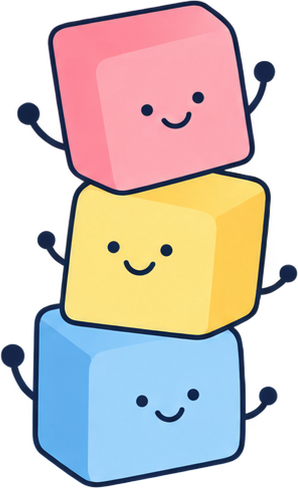
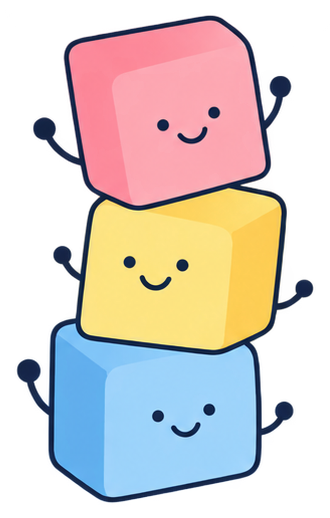
イラストの切れを修正：素材を余白つきで切り出し直し（雲の点など）・昇る気球を内側へ・流れる列の端をぼかす

diff --git a/index.html b/index.html
@@ -20,9 +20,9 @@
   <link rel="preconnect" href="https://fonts.googleapis.com">
   <link rel="preconnect" href="https://fonts.gstatic.com" crossorigin>
   <link href="https://fonts.googleapis.com/css2?family=Roboto:wght@900&family=Zen+Kaku+Gothic+New:wght@500;700&family=Zen+Maru+Gothic:wght@700;900&family=Mochiy+Pop+One&display=swap" rel="stylesheet">
-    <link rel="stylesheet" href="tokens.css?v=20261019k">
-  <link rel="stylesheet" href="base.css?v=20261019k">
-  <link rel="stylesheet" href="style.css?v=20261019k">
+    <link rel="stylesheet" href="tokens.css?v=20261019m">
+  <link rel="stylesheet" href="base.css?v=20261019m">
+  <link rel="stylesheet" href="style.css?v=20261019m">
 </head>
 <body>
   <svg width="0" height="0" class="defs" aria-hidden="true">
@@ -38,9 +38,9 @@
   <div class="stage">
         <aside class="rail rail--left" aria-hidden="true">
       <div class="float-set float-set--l">
-        <img class="fl fl--balloon" src="assets/illust/ch_balloon.png?v=20261019k" alt="" width="331" height="450" decoding="async">
-        <img class="fl fl--face" src="assets/illust/ch_blocks.png?v=20261019k" alt="" width="298" height="488" decoding="async">
-        <img class="fl fl--star" src="assets/illust/ch_mitten.png?v=20261019k" alt="" width="417" height="417" decoding="async">
+        <img class="fl fl--balloon" src="assets/illust/ch_balloon.png?v=20261019m" alt="" width="360" height="482" decoding="async">
+        <img class="fl fl--face" src="assets/illust/ch_blocks.png?v=20261019m" alt="" width="330" height="518" decoding="async">
+        <img class="fl fl--star" src="assets/illust/ch_mitten.png?v=20261019m" alt="" width="448" height="448" decoding="async">
       </div>
       <div class="rail-logo">
         <span class="tape tape--pink rail-logo__tape"></span>
@@ -63,12 +63,12 @@
 
                 <section class="page page--hero" id="top" data-tone="light" data-label="TOP">
           <h1 class="vh">合同会社アステップ 児童指導員・保育士 採用サイト</h1>
-          <video class="hero__video" src="assets/hero.mp4?v=20261019k" poster="assets/hero-poster.jpg?v=20261019k" autoplay muted loop playsinline></video>
+          <video class="hero__video" src="assets/hero.mp4?v=20261019m" poster="assets/hero-poster.jpg?v=20261019m" autoplay muted loop playsinline></video>
           <p class="hero__swipe" aria-hidden="true"><span>SWIPE UP</span></p>
         </section>
 
                 <section class="page page--about" id="p1" data-tone="light" data-label="ABOUT">
-          <div class="bgd" aria-hidden="true"><svg class="bd bd--yellow bd--spin" style="--x:6%;--y:90%;--w:2.2em;--d:0s"><use href="#star"/></svg><svg class="bd bd--pink" style="--x:86%;--y:58%;--w:2em;--d:-2s"><use href="#face"/></svg><span class="cut" style="--x:70%;--y:9%;--w:26%;--d:0.2s"><img class="cut__in" src="assets/illust/ch_balloon.png?v=20261019k" alt="" width="331" height="450" decoding="async"></span><span class="cut" style="--x:4%;--y:9%;--w:22%;--d:0.1s"><img class="cut__in" src="assets/illust/ch_mitten.png?v=20261019k" alt="" width="417" height="417" decoding="async"></span></div>
+          <div class="bgd" aria-hidden="true"><svg class="bd bd--yellow bd--spin" style="--x:6%;--y:90%;--w:2.2em;--d:0s"><use href="#star"/></svg><svg class="bd bd--pink" style="--x:86%;--y:58%;--w:2em;--d:-2s"><use href="#face"/></svg><span class="cut" style="--x:70%;--y:9%;--w:26%;--d:0.2s"><img class="cut__in" src="assets/illust/ch_balloon.png?v=20261019m" alt="" width="360" height="482" decoding="async"></span><span class="cut" style="--x:4%;--y:9%;--w:22%;--d:0.1s"><img class="cut__in" src="assets/illust/ch_mitten.png?v=20261019m" alt="" width="448" height="448" decoding="async"></span></div>
           <span class="about__open" aria-hidden="true"></span>
           <div class="page__inner">
             <div class="head">
@@ -85,7 +85,7 @@
         </section>
 
                 <section class="page page--value" id="p2" data-tone="light" data-label="VALUE">
-          <div class="bgd" aria-hidden="true"><svg class="bd bd--blue bd--spin" style="--x:4%;--y:12%;--w:2em;--d:0s"><use href="#star"/></svg><svg class="bd bd--pink bd--balloon bd--rise" style="--x:88%;--y:52%;--w:2.2em;--d:-6s"><use href="#balloon"/></svg><span class="cut" style="--x:72%;--y:8%;--w:25%;--d:0.2s"><img class="cut__in" src="assets/illust/ch_star.png?v=20261019k" alt="" width="349" height="358" decoding="async"></span></div>
+          <div class="bgd" aria-hidden="true"><svg class="bd bd--blue bd--spin" style="--x:4%;--y:12%;--w:2em;--d:0s"><use href="#star"/></svg><svg class="bd bd--pink bd--balloon bd--rise" style="--x:78%;--y:52%;--w:2.2em;--d:-6s"><use href="#balloon"/></svg><span class="cut" style="--x:72%;--y:8%;--w:25%;--d:0.2s"><img class="cut__in" src="assets/illust/ch_star.png?v=20261019m" alt="" width="378" height="390" decoding="async"></span></div>
           <span class="sun sun--pink" aria-hidden="true"><svg><use href="#face"/></svg></span>
           <div class="page__inner">
             <div class="head">
@@ -95,7 +95,7 @@
             <div class="value__row">
               <p class="body rv"><span class="ln">私たちが<wbr>大切に<span class="nb">しているのは、</span></span><span class="ln">何でも<wbr>教えて、</span><span class="ln"><span class="nb">何でも手伝う</span><wbr><span class="nb">支援じゃない。</span></span></p>
               <figure class="jacket rv" aria-hidden="true">
-                <img class="jacket__img" src="assets/photo/kya_2.jpg?v=20261019k" alt="" width="720" height="540" decoding="async">
+                <img class="jacket__img" src="assets/photo/kya_2.jpg?v=20261019m" alt="" width="720" height="540" decoding="async">
                 <span class="jacket__burst"><svg><use href="#burst"/></svg><b>？</b></span>
               </figure>
             </div>
@@ -107,7 +107,7 @@
         </section>
 
                 <section class="page page--case" id="p3" data-tone="light" data-label="CASE">
-          <div class="bgd" aria-hidden="true"><svg class="bd bd--yellow bd--spin" style="--x:90%;--y:90%;--w:2em;--d:0s"><use href="#star"/></svg><svg class="bd bd--blue" style="--x:4%;--y:10%;--w:1.8em;--d:-1s"><use href="#face"/></svg><span class="cut" style="--x:66%;--y:8%;--w:32%;--d:0.2s"><img class="cut__in" src="assets/illust/ch_book.png?v=20261019k" alt="" width="440" height="336" decoding="async"></span><span class="cut" style="--x:84%;--y:23%;--w:13%;--d:0.6s"><img class="cut__in" src="assets/illust/ch_drop.png?v=20261019k" alt="" width="356" height="412" decoding="async"></span></div>
+          <div class="bgd" aria-hidden="true"><svg class="bd bd--yellow bd--spin" style="--x:90%;--y:90%;--w:2em;--d:0s"><use href="#star"/></svg><svg class="bd bd--blue" style="--x:4%;--y:10%;--w:1.8em;--d:-1s"><use href="#face"/></svg><span class="cut" style="--x:66%;--y:8%;--w:32%;--d:0.2s"><img class="cut__in" src="assets/illust/ch_book.png?v=20261019m" alt="" width="470" height="368" decoding="async"></span><span class="cut" style="--x:84%;--y:23%;--w:13%;--d:0.6s"><img class="cut__in" src="assets/illust/ch_drop.png?v=20261019m" alt="" width="386" height="444" decoding="async"></span></div>
           <div class="page__inner">
             <div class="head">
               <p class="bigen page__label rv" aria-hidden="true"><span class="bigen__en">CASE</span><span class="bigen__ja">こんなとき</span></p>
@@ -115,14 +115,14 @@
             </div>
             <div class="cases">
               <article class="case rv">
-                <figure class="case__fig" aria-hidden="true"><img class="case__img" src="assets/illust/ex1.jpg?v=20261019k" alt="" width="640" height="640" decoding="async"></figure>
+                <figure class="case__fig" aria-hidden="true"><img class="case__img" src="assets/illust/ex1.jpg?v=20261019m" alt="" width="640" height="640" decoding="async"></figure>
                 <div class="case__body">
                   <h3 class="case__tag"><span>例①</span><span class="case__plus" aria-hidden="true">？</span></h3>
                   <p class="case__txt"><span class="ln">「ただいま」を<wbr><span class="nb">言わない子に、</span></span><span class="ln">「ただいまって<wbr>言おう」と<wbr>教えるのではなく、<span class="kw">「あれ？<wbr><span class="nb">何か忘れてない？」</span></span>と<wbr>声をかけてみる。</span></p>
                 </div>
               </article>
               <article class="case rv">
-                <figure class="case__fig" aria-hidden="true"><img class="case__img" src="assets/illust/ex2.jpg?v=20261019k" alt="" width="640" height="640" decoding="async"></figure>
+                <figure class="case__fig" aria-hidden="true"><img class="case__img" src="assets/illust/ex2.jpg?v=20261019m" alt="" width="640" height="640" decoding="async"></figure>
                 <div class="case__body">
                   <h3 class="case__tag"><span>例②</span><span class="case__plus" aria-hidden="true">？</span></h3>
                   <p class="case__txt"><span class="ln">おやつの<wbr>時間も、<wbr>お盆に<wbr>乗せるところから<wbr>自分で<wbr>挑戦してもらう。</span><span class="ln">できたら<span class="kw">「持てたじゃん！」</span>と、<wbr>その一歩を<wbr>一緒に<wbr>喜ぶ。</span></p>
@@ -134,7 +134,7 @@
         </section>
 
                 <section class="page page--strong1" id="p4" data-tone="light" data-label="STRENGTH 01">
-          <div class="bgd" aria-hidden="true"><svg class="bd bd--pink bd--balloon bd--rise" style="--x:6%;--y:60%;--w:2.2em;--d:-9s"><use href="#balloon"/></svg><span class="cut" style="--x:76%;--y:7%;--w:20%;--d:0.2s"><img class="cut__in" src="assets/illust/ch_blocks.png?v=20261019k" alt="" width="298" height="488" decoding="async"></span></div>
+          <div class="bgd" aria-hidden="true"><svg class="bd bd--pink bd--balloon bd--rise" style="--x:6%;--y:60%;--w:2.2em;--d:-9s"><use href="#balloon"/></svg><span class="cut" style="--x:76%;--y:7%;--w:20%;--d:0.2s"><img class="cut__in" src="assets/illust/ch_blocks.png?v=20261019m" alt="" width="330" height="518" decoding="async"></span></div>
           <span class="stairs stairs--r" aria-hidden="true"></span>
           <div class="page__inner">
             <div class="head">
@@ -142,14 +142,14 @@
               <h2 class="hd rv"><span class="hd__pre">アステップの<wbr>強み１：</span><span class="kw">先輩の<wbr>経験が、<span class="nb">あなたの引き出しに！</span></span></h2>
             </div>
             <div class="txt">
-              <p class="body rv"><span class="ln">ここには、<wbr>10年以上働き続けている<wbr>スタッフも<wbr>多く<wbr>在籍。</span><span class="ln">経験豊富な<wbr>先輩たちの<wbr>関わり方を<wbr>間近で<wbr>見て、<wbr>学べるからこそ、</span><span class="ln pills"><span class="pills__list"><span class="pill"><span class="pill__no" aria-hidden="true">01</span><span class="pill__t">「こんな<wbr>声のかけ方もあるんだ」</span></span><span class="pill"><span class="pill__no" aria-hidden="true">02</span><span class="pill__t">「こんな方法も<wbr>試せるんだ」</span></span></span><img class="pills__ill" src="assets/illust/strong1.jpg?v=20261019k" alt="" aria-hidden="true" width="480" height="480" decoding="async"></span><span class="ln">と、<wbr>自分の<wbr>支援の<wbr>幅も<wbr>広がっていきます。</span></p>
+              <p class="body rv"><span class="ln">ここには、<wbr>10年以上働き続けている<wbr>スタッフも<wbr>多く<wbr>在籍。</span><span class="ln">経験豊富な<wbr>先輩たちの<wbr>関わり方を<wbr>間近で<wbr>見て、<wbr>学べるからこそ、</span><span class="ln pills"><span class="pills__list"><span class="pill"><span class="pill__no" aria-hidden="true">01</span><span class="pill__t">「こんな<wbr>声のかけ方もあるんだ」</span></span><span class="pill"><span class="pill__no" aria-hidden="true">02</span><span class="pill__t">「こんな方法も<wbr>試せるんだ」</span></span></span><img class="pills__ill" src="assets/illust/strong1.jpg?v=20261019m" alt="" aria-hidden="true" width="480" height="480" decoding="async"></span><span class="ln">と、<wbr>自分の<wbr>支援の<wbr>幅も<wbr>広がっていきます。</span></p>
               <p class="body rv"><span class="ln">実際に、<span class="kw">未経験の<wbr>パートから<wbr>スタート</span>し、</span><span class="ln">今では<span class="kw">児童指導員として<wbr>活躍</span>している<wbr>スタッフも。</span><span class="ln">子どもたちと<wbr>向き合いながら、<wbr>あなたらしい<wbr>支援を<wbr>見つけていける<wbr>環境です。</span></p>
             </div>
           </div>
         </section>
 
                 <section class="page page--strong2" id="p5" data-tone="light" data-label="STRENGTH 02">
-          <div class="bgd" aria-hidden="true"><svg class="bd bd--yellow bd--spin" style="--x:88%;--y:46%;--w:2em;--d:0s"><use href="#star"/></svg><span class="cut" style="--x:76%;--y:9%;--w:22%;--d:0.2s"><img class="cut__in" src="assets/illust/ch_crayon.png?v=20261019k" alt="" width="410" height="385" decoding="async"></span></div>
+          <div class="bgd" aria-hidden="true"><svg class="bd bd--yellow bd--spin" style="--x:88%;--y:46%;--w:2em;--d:0s"><use href="#star"/></svg><span class="cut" style="--x:76%;--y:9%;--w:22%;--d:0.2s"><img class="cut__in" src="assets/illust/ch_crayon.png?v=20261019m" alt="" width="440" height="416" decoding="async"></span></div>
           <span class="stairs stairs--l" aria-hidden="true"></span>
           <div class="page__inner">
             <div class="head">
@@ -158,7 +158,7 @@
             </div>
             <div class="eye rv">
               <p class="body eye__txt"><span class="ln">ここでは、<wbr>子どもたちから<wbr>「先生」ではなく<span class="nb"><span class="nametag"><span class="nametag__clip" aria-hidden="true"></span>「〇〇さん」</span>と</span><wbr>名前で<wbr><span class="nb">呼んでもらっている。</span></p>
-              <figure class="eye__fig" aria-hidden="true"><span class="tape tape--pink eye__tape"></span><img class="eye__img" src="assets/illust/strong2.jpg?v=20261019k" alt="" width="640" height="480" decoding="async"></figure>
+              <figure class="eye__fig" aria-hidden="true"><span class="tape tape--pink eye__tape"></span><img class="eye__img" src="assets/illust/strong2.jpg?v=20261019m" alt="" width="640" height="480" decoding="async"></figure>
             </div>
             <div class="txt">
               <p class="body rv"><span class="ln">先生らしく<wbr>振る舞ったり、<wbr>立場を<wbr>使って<wbr>教えたりする<wbr>必要はいらない。</span><span class="ln">一人の人として<wbr>子どもたちと<wbr>関わり、</span><span class="ln">一緒に<wbr>過ごす<wbr>中で、<wbr>その子に<wbr>合った<wbr>声のかけ方や<wbr>支援を<wbr>考えていきます。</span></p>
@@ -168,7 +168,7 @@
         </section>
 
                 <section class="page page--job" id="p6" data-tone="light" data-label="JOB">
-          <div class="bgd" aria-hidden="true"><svg class="bd bd--yellow bd--spin" style="--x:86%;--y:86%;--w:2em;--d:0s"><use href="#star"/></svg><svg class="bd bd--pink bd--balloon bd--rise" style="--x:4%;--y:92%;--w:2.2em;--d:-4s"><use href="#balloon"/></svg><span class="cut" style="--x:62%;--y:5%;--w:28%;--d:0.2s"><img class="cut__in" src="assets/illust/ch_balloon.png?v=20261019k" alt="" width="331" height="450" decoding="async"></span><span class="cut" style="--x:-4%;--y:84%;--w:24%;--d:0.5s"><img class="cut__in" src="assets/illust/ch_star.png?v=20261019k" alt="" width="349" height="358" decoding="async"></span></div>
+          <div class="bgd" aria-hidden="true"><svg class="bd bd--yellow bd--spin" style="--x:86%;--y:86%;--w:2em;--d:0s"><use href="#star"/></svg><svg class="bd bd--pink bd--balloon bd--rise" style="--x:4%;--y:92%;--w:2.2em;--d:-4s"><use href="#balloon"/></svg><span class="cut" style="--x:62%;--y:5%;--w:28%;--d:0.2s"><img class="cut__in" src="assets/illust/ch_balloon.png?v=20261019m" alt="" width="360" height="482" decoding="async"></span><span class="cut" style="--x:-4%;--y:84%;--w:24%;--d:0.5s"><img class="cut__in" src="assets/illust/ch_star.png?v=20261019m" alt="" width="378" height="390" decoding="async"></span></div>
           <div class="page__inner">
             <div class="head">
               <p class="bigen page__label rv" aria-hidden="true"><span class="bigen__en">JOB</span><span class="bigen__ja">おしごと</span></p>
@@ -187,7 +187,7 @@
         </section>
 
                 <section class="page page--place" id="p7" data-tone="light" data-label="PLACE">
-          <div class="bgd" aria-hidden="true"><svg class="bd bd--blue bd--balloon bd--rise" style="--x:90%;--y:30%;--w:2.2em;--d:-12s"><use href="#balloon"/></svg><svg class="bd bd--pink bd--spin" style="--x:4%;--y:92%;--w:2em;--d:0s"><use href="#star"/></svg><span class="cut" style="--x:72%;--y:8%;--w:26%;--d:0.2s"><img class="cut__in" src="assets/illust/ch_bag.png?v=20261019k" alt="" width="381" height="393" decoding="async"></span><span class="cut" style="--x:68%;--y:86%;--w:28%;--d:0.6s"><img class="cut__in" src="assets/illust/ch_shoes.png?v=20261019k" alt="" width="442" height="392" decoding="async"></span></div>
+          <div class="bgd" aria-hidden="true"><svg class="bd bd--blue bd--balloon bd--rise" style="--x:78%;--y:30%;--w:2.2em;--d:-12s"><use href="#balloon"/></svg><svg class="bd bd--pink bd--spin" style="--x:4%;--y:92%;--w:2em;--d:0s"><use href="#star"/></svg><span class="cut" style="--x:72%;--y:8%;--w:26%;--d:0.2s"><img class="cut__in" src="assets/illust/ch_bag.png?v=20261019m" alt="" width="412" height="424" decoding="async"></span><span class="cut" style="--x:68%;--y:86%;--w:28%;--d:0.6s"><img class="cut__in" src="assets/illust/ch_shoes.png?v=20261019m" alt="" width="472" height="424" decoding="async"></span></div>
           <div class="page__inner">
             <div class="head">
               <p class="bigen page__label rv" aria-hidden="true"><span class="bigen__en">PLACE</span><span class="bigen__ja">しせつ</span></p>
@@ -200,20 +200,20 @@
               </div>
               <article class="facility is-on" data-i="0">
                 <div class="facility__photos" aria-hidden="true">
-                  <img class="facility__img is-on" src="assets/photo/emi_1.jpg?v=20261019k" alt="" width="720" height="540" decoding="async">
-                  <img class="facility__img" src="assets/photo/emi_2.jpg?v=20261019k" alt="" width="720" height="540" decoding="async">
-                  <img class="facility__img" src="assets/photo/emi_3.jpg?v=20261019k" alt="" width="720" height="540" decoding="async">
-                  <span class="facility__logo"><img src="assets/logo/emifull.jpg?v=20261019k" alt="" width="400" height="459" decoding="async"></span>
+                  <img class="facility__img is-on" src="assets/photo/emi_1.jpg?v=20261019m" alt="" width="720" height="540" decoding="async">
+                  <img class="facility__img" src="assets/photo/emi_2.jpg?v=20261019m" alt="" width="720" height="540" decoding="async">
+                  <img class="facility__img" src="assets/photo/emi_3.jpg?v=20261019m" alt="" width="720" height="540" decoding="async">
+                  <span class="facility__logo"><img src="assets/logo/emifull.jpg?v=20261019m" alt="" width="400" height="459" decoding="async"></span>
                 </div>
                 <h3 class="facility__name"><span class="kw">エミフル</span></h3>
                 <p class="body facility__txt"><span class="ln">この<wbr>施設では</span><span class="ln">小さな<wbr>変化も<wbr>見逃さず、<wbr>たくさん<wbr>褒める。</span><span class="ln">「自分にもできるんだ」という<wbr>自信を<wbr>育みながら、<wbr>自分の<wbr>気持ちを<wbr>表現し、</span><span class="ln">自分らしく<wbr>未来へ<wbr>進めるよう<wbr>支援を<wbr>大切にしています。</span></p>
               </article>
               <article class="facility" data-i="1">
                 <div class="facility__photos" aria-hidden="true">
-                  <img class="facility__img is-on" src="assets/photo/kya_1.jpg?v=20261019k" alt="" width="720" height="540" decoding="async">
-                  <img class="facility__img" src="assets/photo/kya_2.jpg?v=20261019k" alt="" width="720" height="540" decoding="async">
-                  <img class="facility__img" src="assets/photo/kya_3.jpg?v=20261019k" alt="" width="720" height="540" decoding="async">
-                  <span class="facility__logo"><img src="assets/logo/kyaratto.jpg?v=20261019k" alt="" width="400" height="322" decoding="async"></span>
+                  <img class="facility__img is-on" src="assets/photo/kya_1.jpg?v=20261019m" alt="" width="720" height="540" decoding="async">
+                  <img class="facility__img" src="assets/photo/kya_2.jpg?v=20261019m" alt="" width="720" height="540" decoding="async">
+                  <img class="facility__img" src="assets/photo/kya_3.jpg?v=20261019m" alt="" width="720" height="540" decoding="async">
+                  <span class="facility__logo"><img src="assets/logo/kyaratto.jpg?v=20261019m" alt="" width="400" height="322" decoding="async"></span>
                 </div>
                 <h3 class="facility__name"><span class="kw">きゃらっと</span></h3>
                 <p class="body facility__txt"><span class="ln">まずは、<wbr>ありのままの<wbr>自分でいられること。</span><span class="ln">そこから、<wbr>日常生活の<wbr>自立や人との<wbr>関わり方、<wbr>将来の<wbr>就労を<wbr>見据えた<wbr>社会的マナーまで<wbr>サポート。</span><span class="ln">“ほっとできる<wbr>居場所”を<wbr>土台に、<wbr>自分らしい<wbr>未来へ<wbr>進む<wbr>力を<wbr>育んでいきます。</span></p>
@@ -227,7 +227,7 @@
         </section>
 
                 <section class="page page--person" id="p8" data-tone="light" data-label="PERSON">
-          <div class="bgd" aria-hidden="true"><svg class="bd bd--yellow bd--spin" style="--x:86%;--y:12%;--w:2em;--d:0s"><use href="#star"/></svg><svg class="bd bd--blue bd--balloon bd--rise" style="--x:80%;--y:52%;--w:2.2em;--d:-3s"><use href="#balloon"/></svg><span class="cut" style="--x:-8%;--y:87%;--w:28%;--d:0.2s"><img class="cut__in" src="assets/illust/ch_book.png?v=20261019k" alt="" width="440" height="336" decoding="async"></span><span class="cut" style="--x:74%;--y:8%;--w:22%;--d:0.4s"><img class="cut__in" src="assets/illust/ch_star.png?v=20261019k" alt="" width="349" height="358" decoding="async"></span><span class="cut" style="--x:6%;--y:9%;--w:16%;--d:0.1s"><img class="cut__in" src="assets/illust/ch_tall.png?v=20261019k" alt="" width="335" height="454" decoding="async"></span></div>
+          <div class="bgd" aria-hidden="true"><svg class="bd bd--yellow bd--spin" style="--x:86%;--y:12%;--w:2em;--d:0s"><use href="#star"/></svg><svg class="bd bd--blue bd--balloon bd--rise" style="--x:78%;--y:52%;--w:2.2em;--d:-3s"><use href="#balloon"/></svg><span class="cut" style="--x:-8%;--y:87%;--w:28%;--d:0.2s"><img class="cut__in" src="assets/illust/ch_book.png?v=20261019m" alt="" width="470" height="368" decoding="async"></span><span class="cut" style="--x:74%;--y:8%;--w:22%;--d:0.4s"><img class="cut__in" src="assets/illust/ch_star.png?v=20261019m" alt="" width="378" height="390" decoding="async"></span><span class="cut" style="--x:6%;--y:9%;--w:16%;--d:0.1s"><img class="cut__in" src="assets/illust/ch_tall.png?v=20261019m" alt="" width="366" height="486" decoding="async"></span></div>
           <span class="stairs stairs--r stairs--low" aria-hidden="true"></span>
           <div class="page__inner">
             <div class="head">
@@ -253,7 +253,7 @@
               <div class="co__row"><dt><span class="vh">【</span>所在地<span class="vh">】</span></dt><dd><span class="ln">〒252-0236</span><span class="ln">神奈川県相模原市<wbr>中央区冨士見<span class="nb">5-2-18</span> <span class="nb">グルワール中村1階</span></span></dd></div>
               <div class="co__row"><dt><span class="vh">【</span>TEL<span class="vh">】</span></dt><dd><a class="co__tel" href="tel:0428100856">042-810-0856</a></dd></div>
             </dl>
-            <div class="parade" aria-hidden="true"><div class="parade__track"><img class="parade__i" src="assets/illust/ch_bag.png?v=20261019k" alt="" width="381" height="393" decoding="async"><svg class="parade__f bd--pink"><use href="#face"/></svg><img class="parade__i" src="assets/illust/ch_crayon.png?v=20261019k" alt="" width="410" height="385" decoding="async"><svg class="parade__f bd--yellow"><use href="#star"/></svg><img class="parade__i" src="assets/illust/ch_balloon.png?v=20261019k" alt="" width="331" height="450" decoding="async"><svg class="parade__f bd--pink"><use href="#face"/></svg><img class="parade__i" src="assets/illust/ch_blocks.png?v=20261019k" alt="" width="298" height="488" decoding="async"><svg class="parade__f bd--blue"><use href="#balloon"/></svg><img class="parade__i" src="assets/illust/ch_book.png?v=20261019k" alt="" width="440" height="336" decoding="async"><svg class="parade__f bd--pink"><use href="#face"/></svg><img class="parade__i" src="assets/illust/ch_star.png?v=20261019k" alt="" width="349" height="358" decoding="async"><svg class="parade__f bd--yellow"><use href="#star"/></svg><img class="parade__i" src="assets/illust/ch_mitten.png?v=20261019k" alt="" width="417" height="417" decoding="async"><img class="parade__i" src="assets/illust/ch_cloud.png?v=20261019k" alt="" width="455" height="291" decoding="async"><img class="parade__i" src="assets/illust/ch_drop.png?v=20261019k" alt="" width="356" height="412" decoding="async"><img class="parade__i" src="assets/illust/ch_cup.png?v=20261019k" alt="" width="310" height="491" decoding="async"><img class="parade__i" src="assets/illust/ch_shoes.png?v=20261019k" alt="" width="442" height="392" decoding="async"><img class="parade__i" src="assets/illust/ch_tall.png?v=20261019k" alt="" width="335" height="454" decoding="async"></div></div>
+            <div class="parade" aria-hidden="true"><div class="parade__track"><img class="parade__i" src="assets/illust/ch_bag.png?v=20261019m" alt="" width="412" height="424" decoding="async"><svg class="parade__f bd--pink"><use href="#face"/></svg><img class="parade__i" src="assets/illust/ch_crayon.png?v=20261019m" alt="" width="440" height="416" decoding="async"><svg class="parade__f bd--yellow"><use href="#star"/></svg><img class="parade__i" src="assets/illust/ch_balloon.png?v=20261019m" alt="" width="360" height="482" decoding="async"><svg class="parade__f bd--pink"><use href="#face"/></svg><img class="parade__i" src="assets/illust/ch_blocks.png?v=20261019m" alt="" width="330" height="518" decoding="async"><svg class="parade__f bd--blue"><use href="#balloon"/></svg><img class="parade__i" src="assets/illust/ch_book.png?v=20261019m" alt="" width="470" height="368" decoding="async"><svg class="parade__f bd--pink"><use href="#face"/></svg><img class="parade__i" src="assets/illust/ch_star.png?v=20261019m" alt="" width="378" height="390" decoding="async"><svg class="parade__f bd--yellow"><use href="#star"/></svg><img class="parade__i" src="assets/illust/ch_mitten.png?v=20261019m" alt="" width="448" height="448" decoding="async"><img class="parade__i" src="assets/illust/ch_cloud.png?v=20261019m" alt="" width="476" height="402" decoding="async"><img class="parade__i" src="assets/illust/ch_drop.png?v=20261019m" alt="" width="386" height="444" decoding="async"><img class="parade__i" src="assets/illust/ch_cup.png?v=20261019m" alt="" width="339" height="520" decoding="async"><img class="parade__i" src="assets/illust/ch_shoes.png?v=20261019m" alt="" width="472" height="424" decoding="async"><img class="parade__i" src="assets/illust/ch_tall.png?v=20261019m" alt="" width="366" height="486" decoding="async"></div></div>
           </div>        </section>
 
                 <section class="page page--long page--req" id="requirements" data-tone="light" data-label="RECRUIT">
@@ -323,8 +323,8 @@
 
         <aside class="rail rail--right">
       <div class="float-set float-set--r" aria-hidden="true">
-        <img class="fl fl--face2" src="assets/illust/ch_cloud.png?v=20261019k" alt="" width="455" height="291" decoding="async">
-        <img class="fl fl--star2" src="assets/illust/ch_crayon.png?v=20261019k" alt="" width="410" height="385" decoding="async">
+        <img class="fl fl--face2" src="assets/illust/ch_cloud.png?v=20261019m" alt="" width="476" height="402" decoding="async">
+        <img class="fl fl--star2" src="assets/illust/ch_crayon.png?v=20261019m" alt="" width="440" height="416" decoding="async">
         <span class="tape tape--blue fl--tape"></span>
       </div>
       <div class="rail-side">
@@ -337,7 +337,7 @@
     </aside>
   </div>
 
-  <script src="swipe.js?v=20261019k"></script>
-  <script src="site.js?v=20261019k"></script>
+  <script src="swipe.js?v=20261019m"></script>
+  <script src="site.js?v=20261019m"></script>
 </body>
 </html>

diff --git a/style.css b/style.css
@@ -271,7 +271,7 @@
 .page.is-active .cut { scale: 1; opacity: 1; transition-delay: var(--d, 0.2s); }
 .cut__in { display: block; width: 100%; height: auto; animation: fuwa var(--dur-float) ease-in-out var(--d, 0s) infinite; }
 
-.parade { position: relative; flex-shrink: 0; height: 15dvh; margin-inline: calc(var(--gutter) * -1); overflow: hidden; pointer-events: none; }   
+.parade { position: relative; flex-shrink: 0; height: 15dvh; margin-inline: calc(var(--gutter) * -1); overflow: hidden; pointer-events: none;  -webkit-mask-image: var(--fade-x); mask-image: var(--fade-x); }   
 .parade__track { display: flex; align-items: flex-end; gap: 4vw; width: max-content; height: 100%; animation: parade var(--parade-t, 40s) linear infinite; }
 .parade__i { flex-shrink: 0; height: 92%; width: auto; }
 .parade__f { flex-shrink: 0; width: 8dvh; height: 8dvh; margin-bottom: 0.4dvh; }   

diff --git a/tokens.css b/tokens.css
@@ -29,6 +29,7 @@
   --bg-dark: linear-gradient(170deg, var(--color-blue) 0%, var(--color-blue-2) 100%);
   --bg-accent: linear-gradient(90deg, var(--color-cta) 0%, var(--color-cta-2) 100%);   
   --bg-step: linear-gradient(180deg, var(--color-accent) 0%, var(--color-pale-pink) 100%);   
+  --fade-x: linear-gradient(90deg, transparent 0, #000 12%, #000 88%, transparent 100%);   
   --bg-sky: linear-gradient(180deg, var(--color-pale) 0%, var(--color-base) 100%);
 
   
